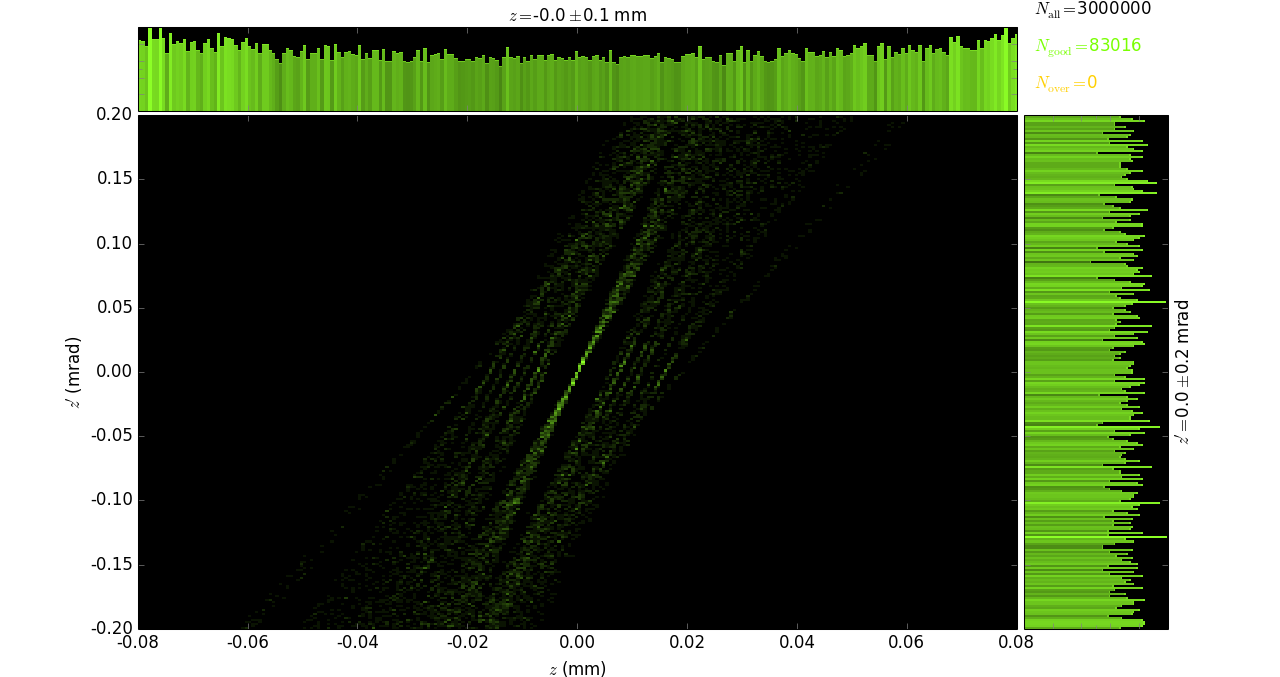
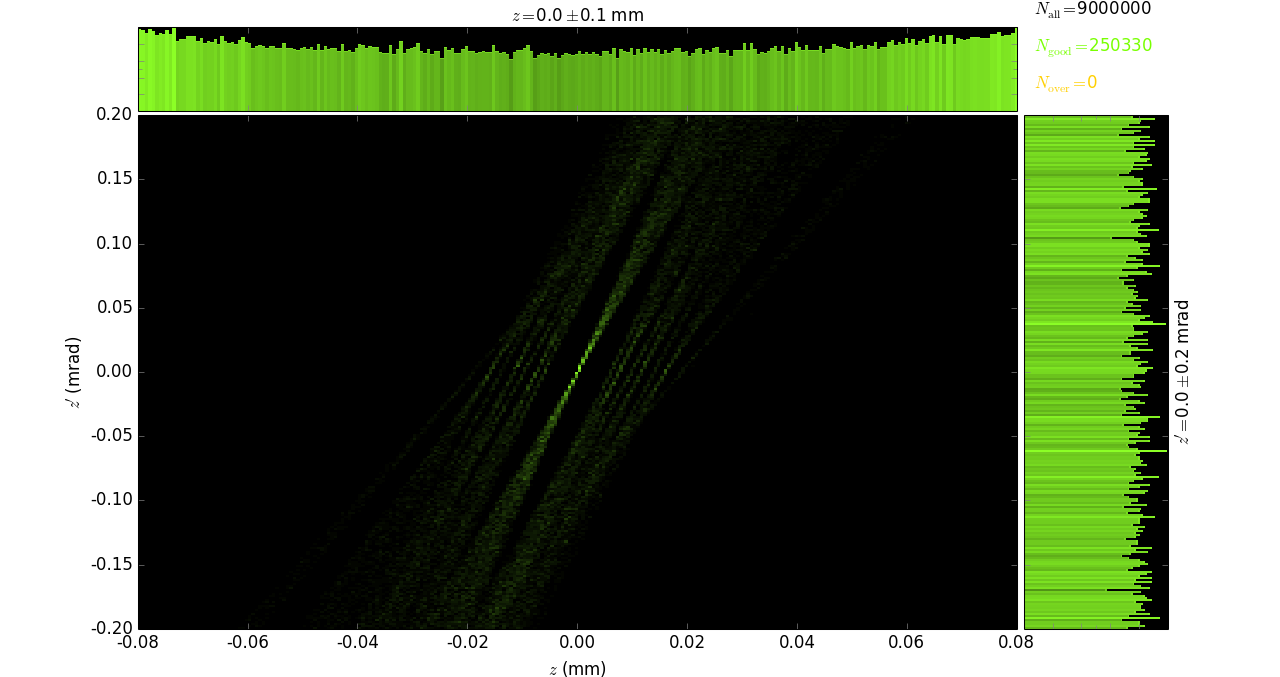
As previous, more rays

diff --git a/simplfiedMonoCapillary.py b/simplfiedMonoCapillary.py
@@ -21,7 +21,7 @@ import xrt.backends.raycing.screens as rsc
 
 mGlass = rm.Material(('Si', 'O'), quantities=(1, 2), rho=2.2)
 
-repeats = 2*1500 # number of ray traycing iterations
+repeats = 6*1500 # number of ray traycing iterations
 E0 = 9000.
 rSample = 100. # starting position of the lens
 f = 250. # y length in mm from foucs to the end of the lens
